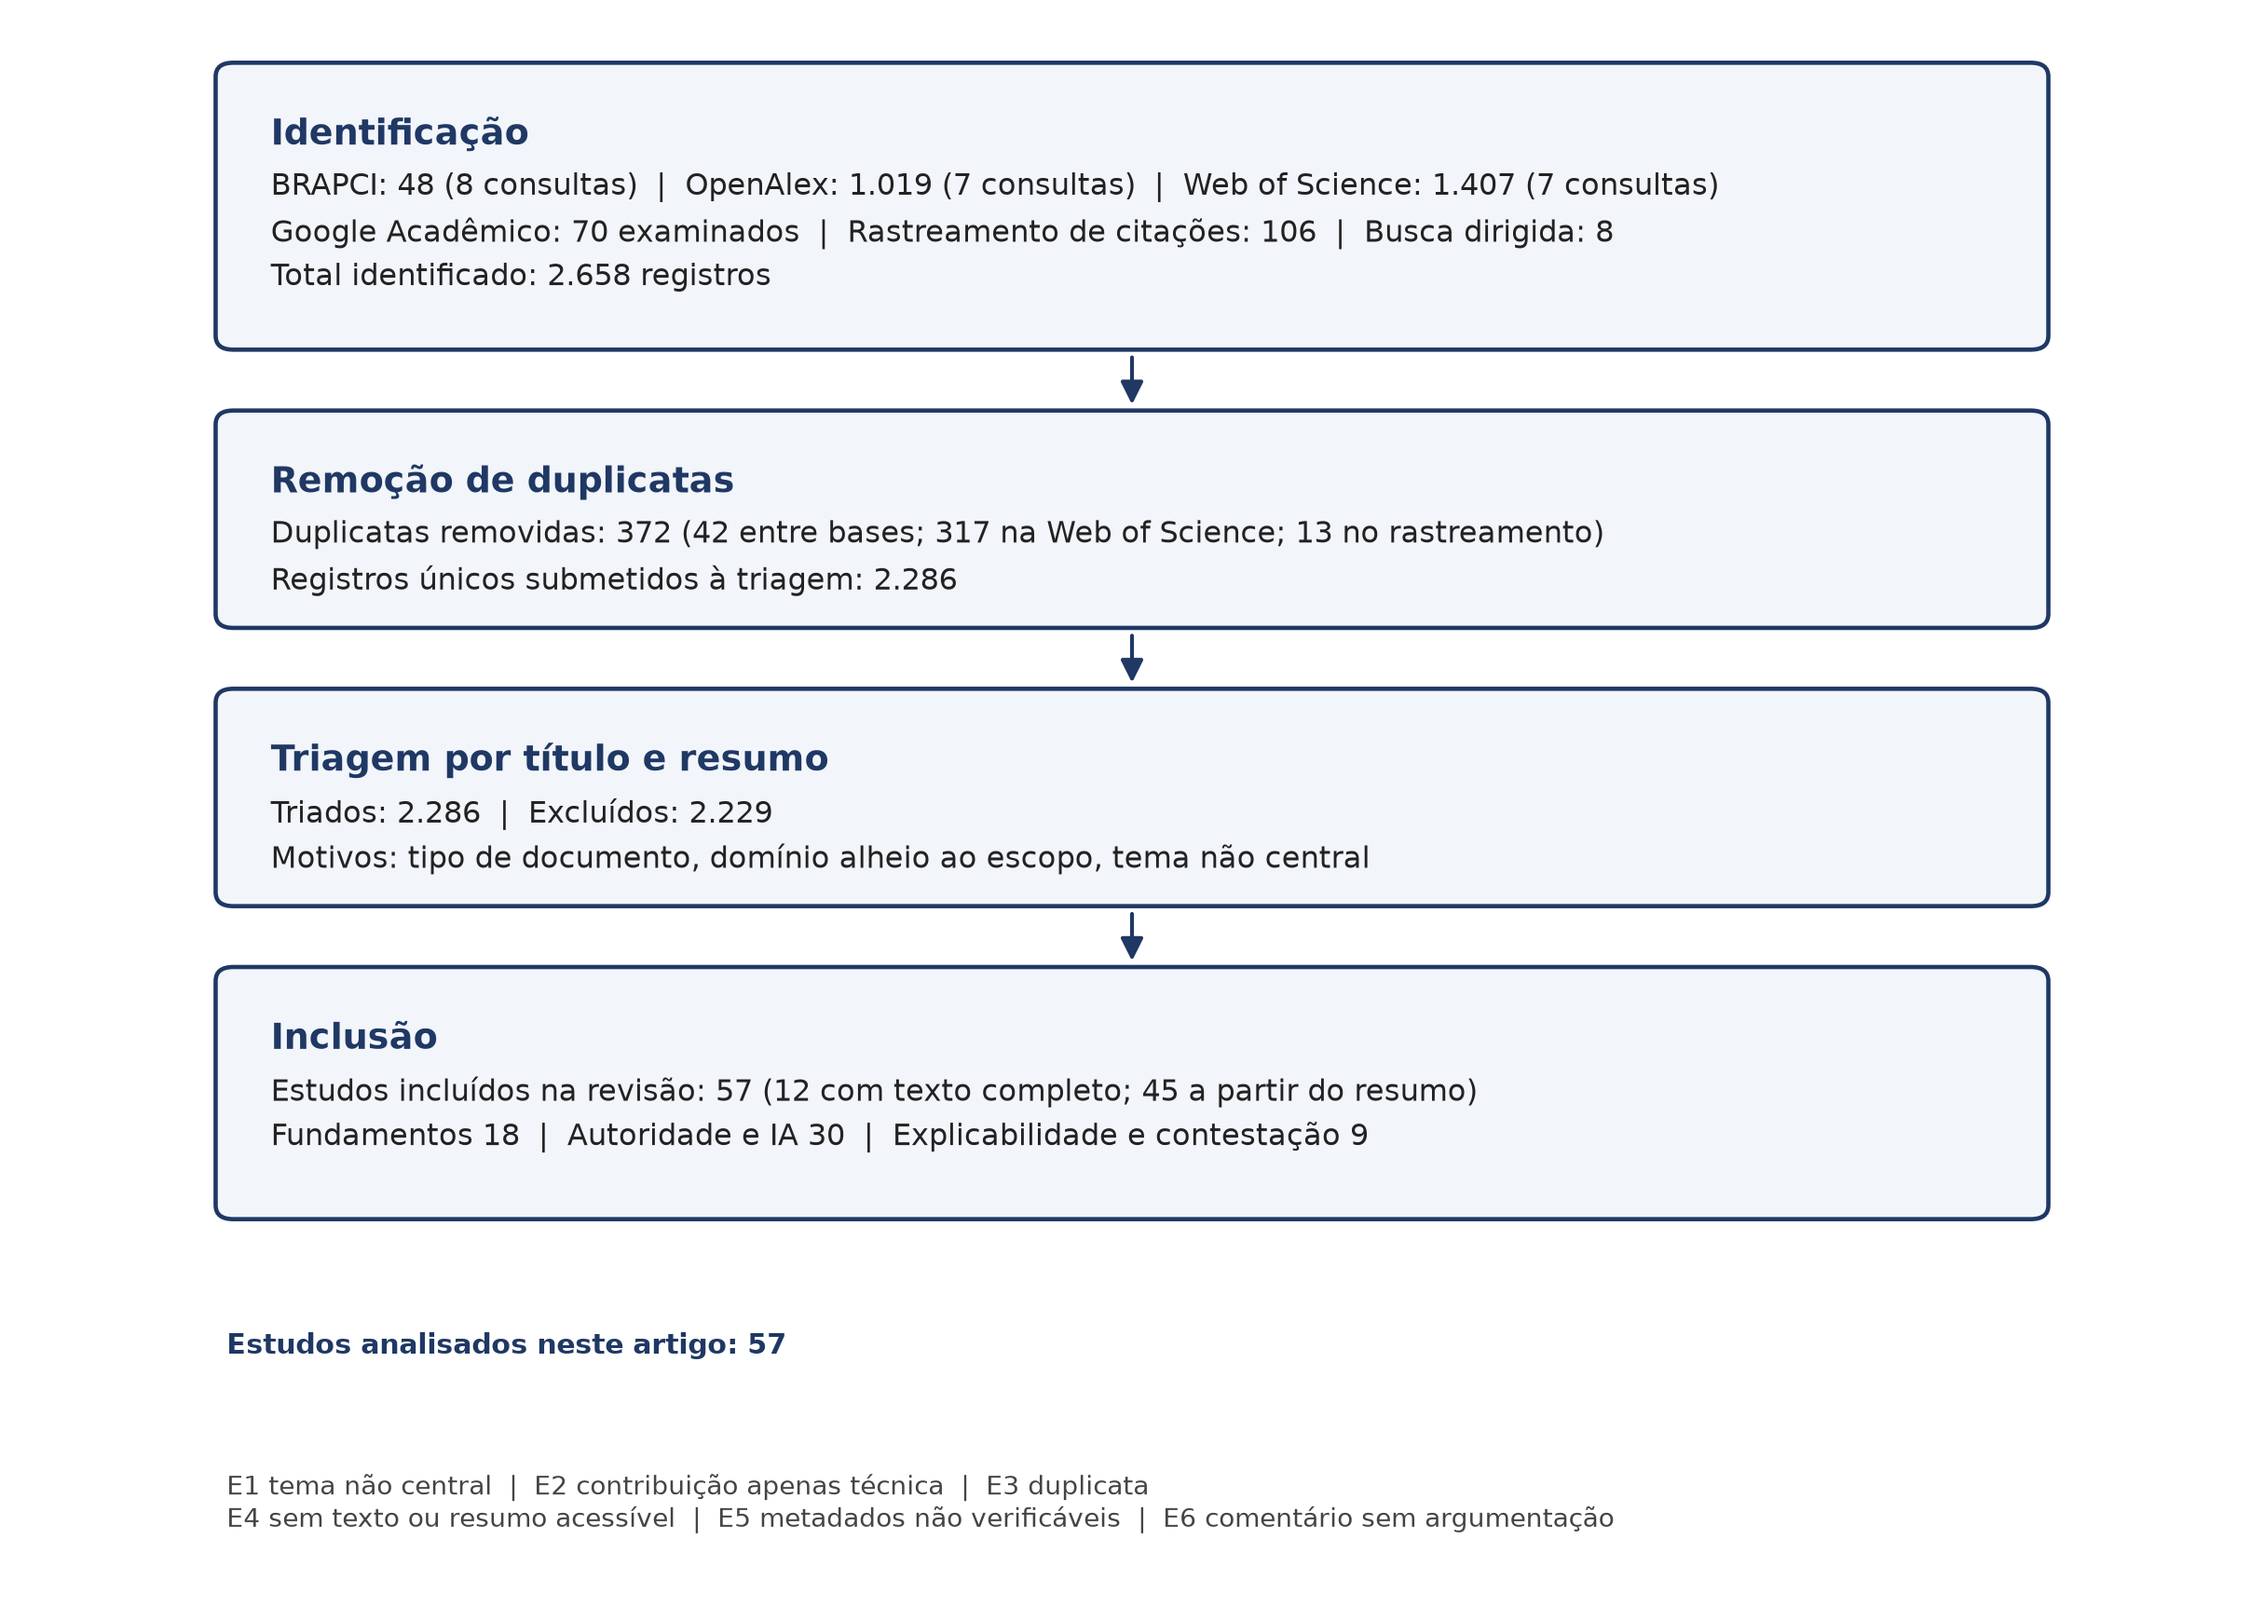
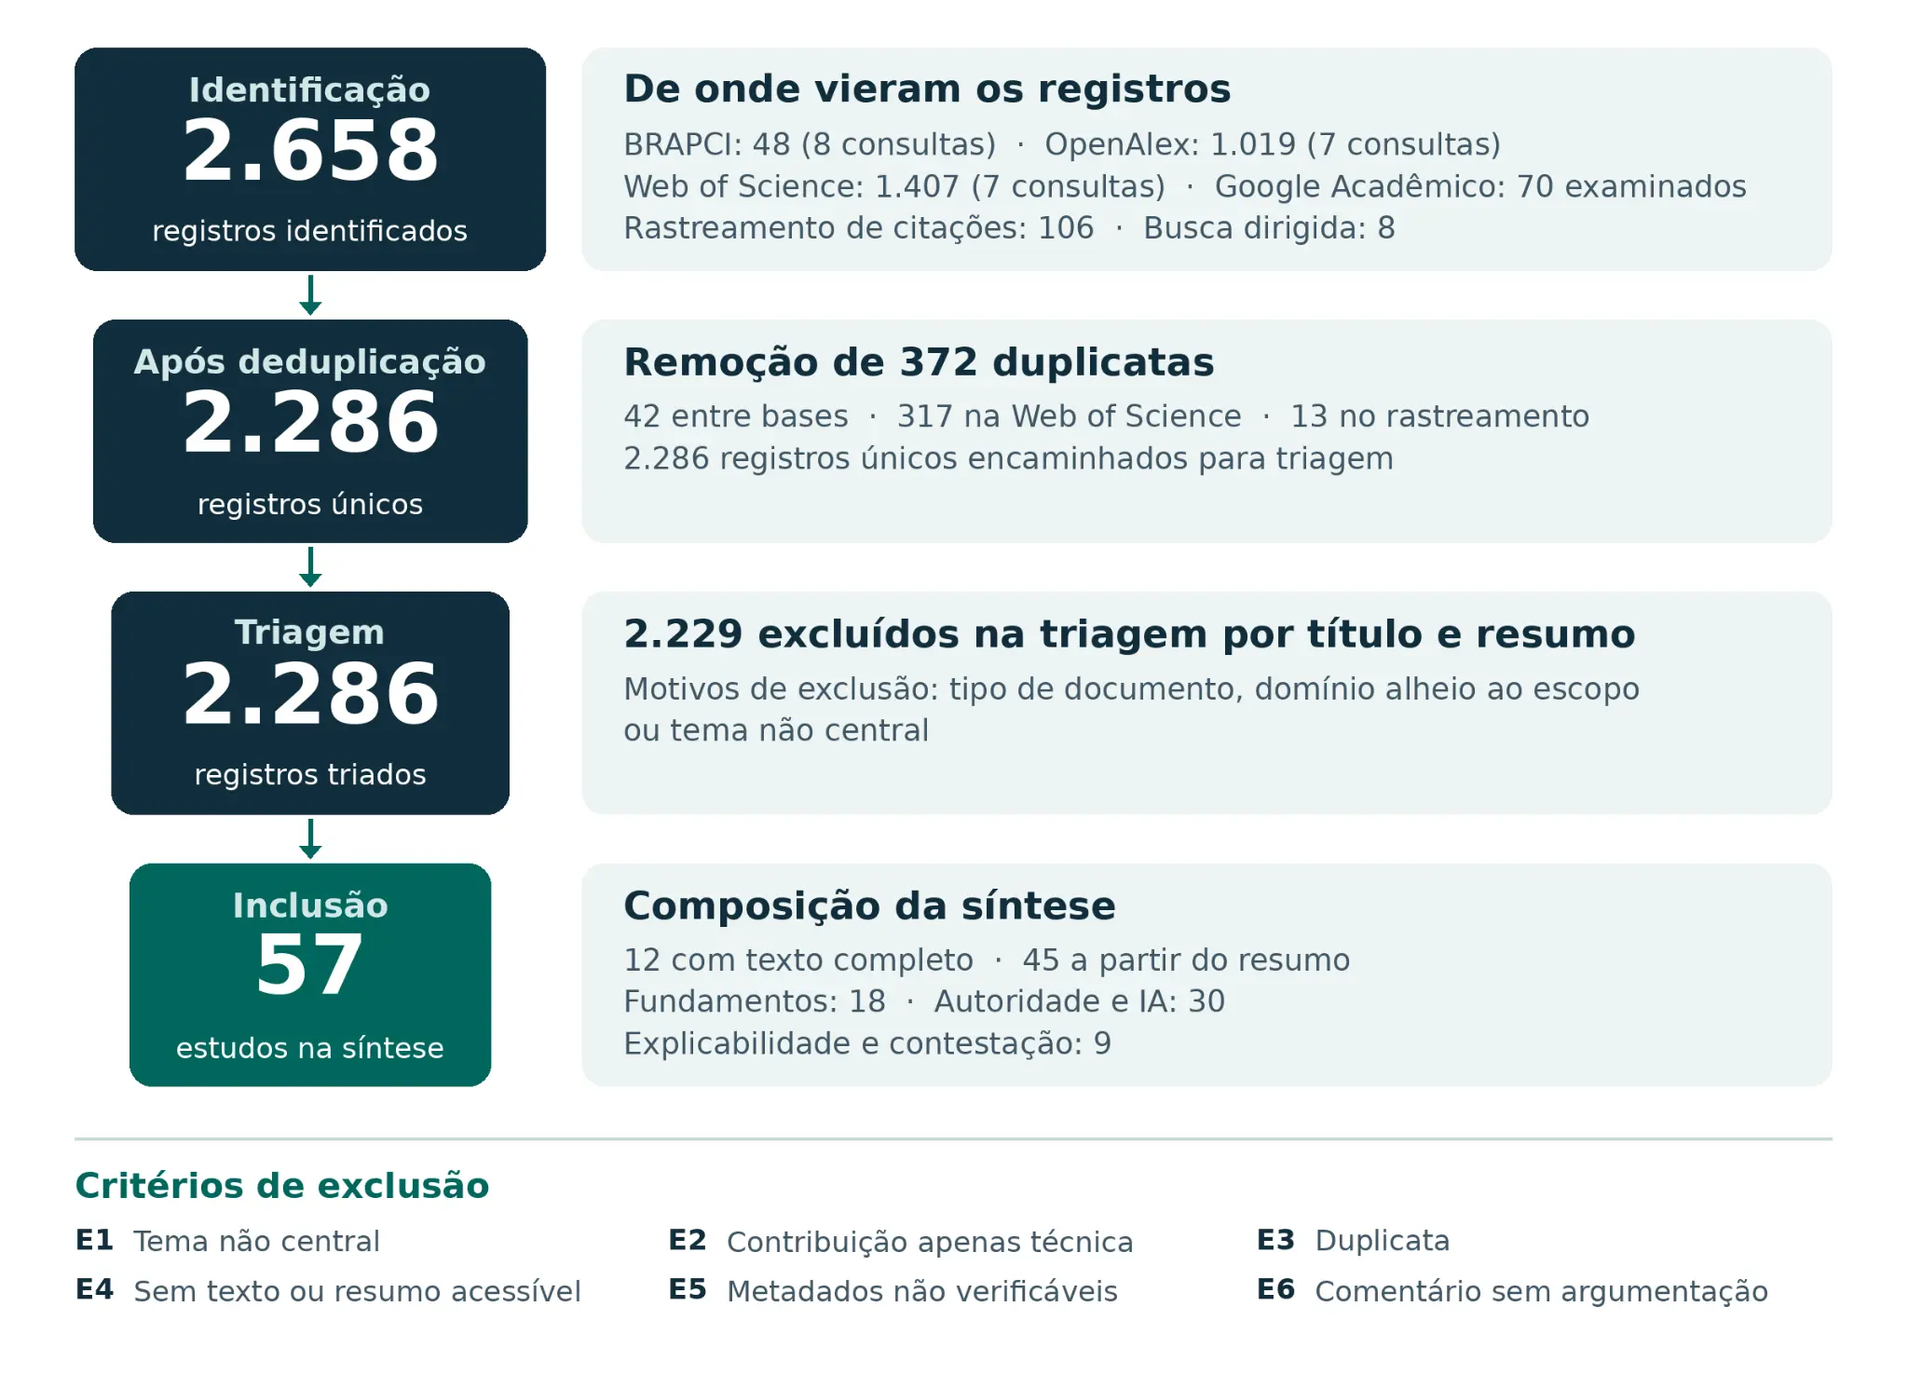
Figura 1 na versão final do artigo (v2.0.1)

Changed region(s): [[0.0312, 0.0312, 0.9375, 0.9661], [0.875, 0.5298, 0.9062, 0.561]]

diff --git a/CHANGELOG.md b/CHANGELOG.md
@@ -2,6 +2,9 @@
 
 Todas as versões do depósito são identificadas por etiqueta no repositório e correspondem a um estado completo dos dados, do protocolo e dos scripts.
 
+## 2.0.1 — 12 de novembro de 2026
+- Figura 1 substituída pela versão final publicada no artigo: fluxograma em funil com os totais por fonte, as 372 duplicatas discriminadas, os 2.229 registros não incluídos, a composição dos 57 estudos e os critérios de exclusão E1 a E6.
+- Nenhuma alteração nos dados, no protocolo ou nos totais; a versão preserva a reconciliação com as abas de triagem e extração da planilha.
 ## 2.0.0 — 12 de novembro de 2026
 
 Consolidação do depósito no recorte final do artigo: a autoridade atribuída à IA generativa e os limites da explicabilidade.
